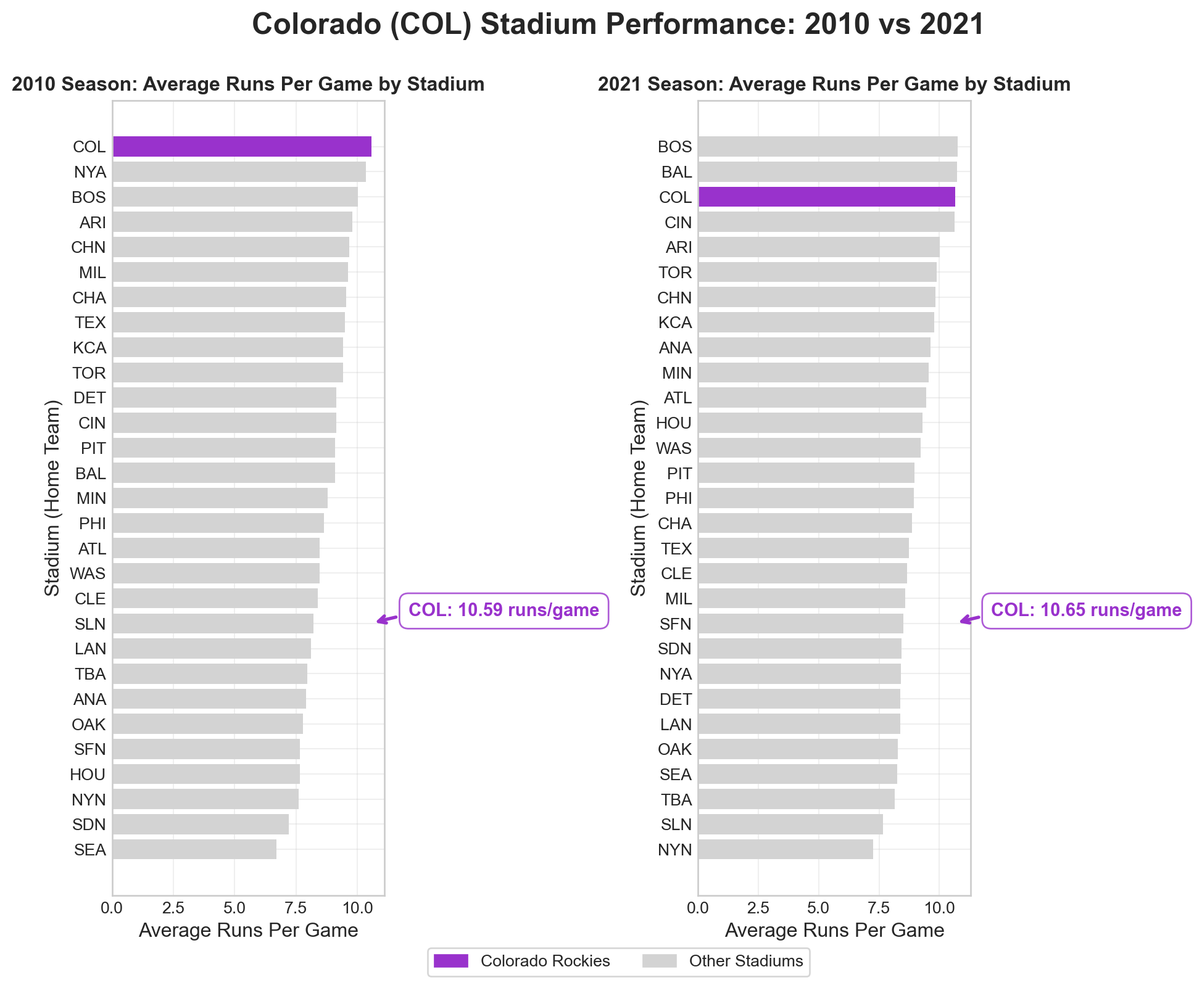
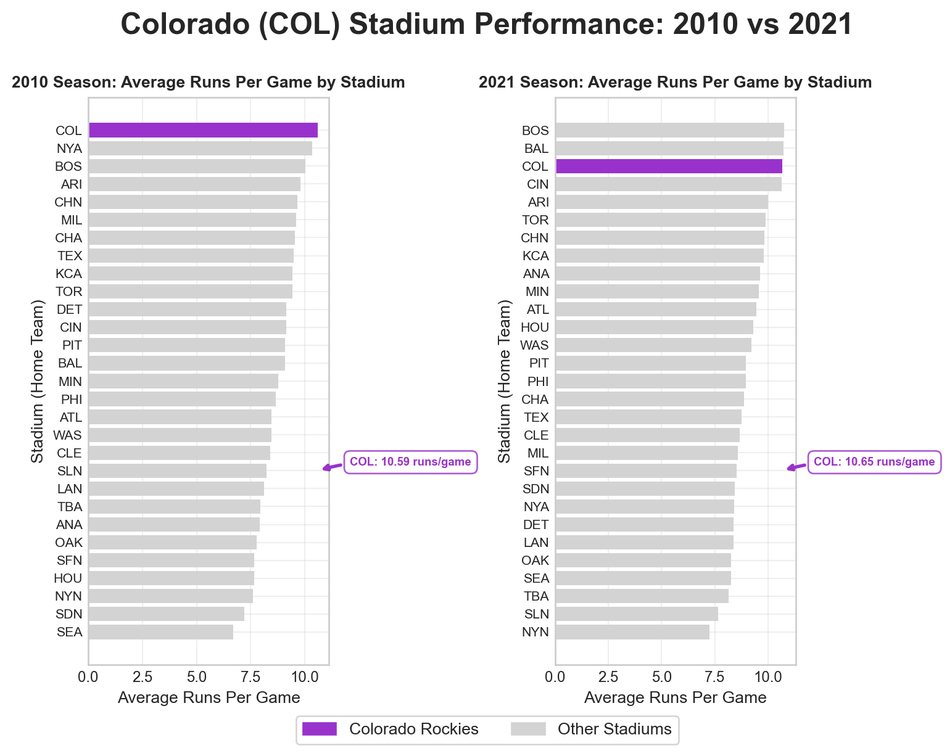
Data Visualization update8

Changed region(s): [[0.0, 0.0, 1.0, 0.9918]]

diff --git a/index.html b/index.html
@@ -362,7 +362,7 @@ First few rows of 2010 data:
 <div class="cell-output cell-output-display">
 <div>
 <figure class="figure">
-<p><img src="index_files/figure-html/stage-3-mapping-exploration-output-1.png" id="stage-3-mapping-exploration" width="758" height="566" class="figure-img"></p>
+<p><img src="index_files/figure-html/stage-3-mapping-exploration-output-1.png" id="stage-3-mapping-exploration" width="758" height="567" class="figure-img"></p>
 </figure>
 </div>
 </div>
@@ -437,17 +437,21 @@ When to use a vertical bar chart Time-series data: Use a vertical chart to displ
 <span id="cb6-39"><a href="#cb6-39" aria-hidden="true" tabindex="-1"></a>max_runs <span class="op">=</span> <span class="bu">max</span>(avgDF_2010_sorted.totalRuns)</span>
 <span id="cb6-40"><a href="#cb6-40" aria-hidden="true" tabindex="-1"></a>ax.set_xlim(<span class="dv">0</span>, <span class="bu">max</span>(colorado_runs <span class="op">+</span> <span class="dv">3</span>, max_runs <span class="op">*</span> <span class="fl">1.15</span>))</span>
 <span id="cb6-41"><a href="#cb6-41" aria-hidden="true" tabindex="-1"></a></span>
-<span id="cb6-42"><a href="#cb6-42" aria-hidden="true" tabindex="-1"></a><span class="co"># Add grid for easier reading</span></span>
-<span id="cb6-43"><a href="#cb6-43" aria-hidden="true" tabindex="-1"></a>ax.grid(<span class="va">True</span>, alpha<span class="op">=</span><span class="fl">0.3</span>)</span>
-<span id="cb6-44"><a href="#cb6-44" aria-hidden="true" tabindex="-1"></a></span>
-<span id="cb6-45"><a href="#cb6-45" aria-hidden="true" tabindex="-1"></a>plt.tight_layout()</span>
-<span id="cb6-46"><a href="#cb6-46" aria-hidden="true" tabindex="-1"></a>plt.show()</span>
-<span id="cb6-47"><a href="#cb6-47" aria-hidden="true" tabindex="-1"></a></span>
-<span id="cb6-48"><a href="#cb6-48" aria-hidden="true" tabindex="-1"></a><span class="co"># Print summary statistics</span></span>
-<span id="cb6-49"><a href="#cb6-49" aria-hidden="true" tabindex="-1"></a><span class="bu">print</span>(<span class="ss">f"</span><span class="ch">\n</span><span class="ss">Summary Statistics for 2010:"</span>)</span>
-<span id="cb6-50"><a href="#cb6-50" aria-hidden="true" tabindex="-1"></a><span class="bu">print</span>(<span class="ss">f"Colorado (COL) average runs per game: </span><span class="sc">{</span>colorado_runs<span class="sc">:.2f}</span><span class="ss">"</span>)</span>
-<span id="cb6-51"><a href="#cb6-51" aria-hidden="true" tabindex="-1"></a><span class="bu">print</span>(<span class="ss">f"League average runs per game: </span><span class="sc">{</span>avgDF_2010_sorted<span class="sc">.</span>totalRuns<span class="sc">.</span>mean()<span class="sc">:.2f}</span><span class="ss">"</span>)</span>
-<span id="cb6-52"><a href="#cb6-52" aria-hidden="true" tabindex="-1"></a><span class="bu">print</span>(<span class="ss">f"Colorado is </span><span class="sc">{</span>((colorado_runs <span class="op">/</span> avgDF_2010_sorted.totalRuns.mean()) <span class="op">-</span> <span class="dv">1</span>) <span class="op">*</span> <span class="dv">100</span><span class="sc">:.1f}</span><span class="ss">% above league average"</span>)</span></code></pre></div><button title="Copy to Clipboard" class="code-copy-button"><i class="bi"></i></button></div>
+<span id="cb6-42"><a href="#cb6-42" aria-hidden="true" tabindex="-1"></a><span class="co"># Control tick label font sizes (the numbers/values on axes)</span></span>
+<span id="cb6-43"><a href="#cb6-43" aria-hidden="true" tabindex="-1"></a>ax.tick_params(axis<span class="op">=</span><span class="st">'x'</span>, labelsize<span class="op">=</span><span class="dv">10</span>)  <span class="co"># x-axis tick numbers</span></span>
+<span id="cb6-44"><a href="#cb6-44" aria-hidden="true" tabindex="-1"></a>ax.tick_params(axis<span class="op">=</span><span class="st">'y'</span>, labelsize<span class="op">=</span><span class="dv">9</span>)   <span class="co"># y-axis stadium names</span></span>
+<span id="cb6-45"><a href="#cb6-45" aria-hidden="true" tabindex="-1"></a></span>
+<span id="cb6-46"><a href="#cb6-46" aria-hidden="true" tabindex="-1"></a><span class="co"># Add grid for easier reading</span></span>
+<span id="cb6-47"><a href="#cb6-47" aria-hidden="true" tabindex="-1"></a>ax.grid(<span class="va">True</span>, alpha<span class="op">=</span><span class="fl">0.3</span>)</span>
+<span id="cb6-48"><a href="#cb6-48" aria-hidden="true" tabindex="-1"></a></span>
+<span id="cb6-49"><a href="#cb6-49" aria-hidden="true" tabindex="-1"></a>plt.tight_layout()</span>
+<span id="cb6-50"><a href="#cb6-50" aria-hidden="true" tabindex="-1"></a>plt.show()</span>
+<span id="cb6-51"><a href="#cb6-51" aria-hidden="true" tabindex="-1"></a></span>
+<span id="cb6-52"><a href="#cb6-52" aria-hidden="true" tabindex="-1"></a><span class="co"># Print summary statistics</span></span>
+<span id="cb6-53"><a href="#cb6-53" aria-hidden="true" tabindex="-1"></a><span class="bu">print</span>(<span class="ss">f"</span><span class="ch">\n</span><span class="ss">Summary Statistics for 2010:"</span>)</span>
+<span id="cb6-54"><a href="#cb6-54" aria-hidden="true" tabindex="-1"></a><span class="bu">print</span>(<span class="ss">f"Colorado (COL) average runs per game: </span><span class="sc">{</span>colorado_runs<span class="sc">:.2f}</span><span class="ss">"</span>)</span>
+<span id="cb6-55"><a href="#cb6-55" aria-hidden="true" tabindex="-1"></a><span class="bu">print</span>(<span class="ss">f"League average runs per game: </span><span class="sc">{</span>avgDF_2010_sorted<span class="sc">.</span>totalRuns<span class="sc">.</span>mean()<span class="sc">:.2f}</span><span class="ss">"</span>)</span>
+<span id="cb6-56"><a href="#cb6-56" aria-hidden="true" tabindex="-1"></a><span class="bu">print</span>(<span class="ss">f"Colorado is </span><span class="sc">{</span>((colorado_runs <span class="op">/</span> avgDF_2010_sorted.totalRuns.mean()) <span class="op">-</span> <span class="dv">1</span>) <span class="op">*</span> <span class="dv">100</span><span class="sc">:.1f}</span><span class="ss">% above league average"</span>)</span></code></pre></div><button title="Copy to Clipboard" class="code-copy-button"><i class="bi"></i></button></div>
 <div class="cell-output cell-output-display">
 <div>
 <figure class="figure">
@@ -537,7 +541,7 @@ Colorado is 20.8% above league average</code></pre>
 <span id="cb8-14"><a href="#cb8-14" aria-hidden="true" tabindex="-1"></a>plt.style.use(<span class="st">"seaborn-v0_8-whitegrid"</span>)</span>
 <span id="cb8-15"><a href="#cb8-15" aria-hidden="true" tabindex="-1"></a></span>
 <span id="cb8-16"><a href="#cb8-16" aria-hidden="true" tabindex="-1"></a><span class="co"># Create two-facet visualization comparing 2010 and 2021</span></span>
-<span id="cb8-17"><a href="#cb8-17" aria-hidden="true" tabindex="-1"></a>fig, axes <span class="op">=</span> plt.subplots(<span class="dv">1</span>, <span class="dv">2</span>, figsize<span class="op">=</span>(<span class="dv">10</span>, <span class="dv">8</span>))</span>
+<span id="cb8-17"><a href="#cb8-17" aria-hidden="true" tabindex="-1"></a>fig, axes <span class="op">=</span> plt.subplots(<span class="dv">1</span>, <span class="dv">2</span>, figsize<span class="op">=</span>(<span class="dv">8</span>, <span class="dv">6</span>))</span>
 <span id="cb8-18"><a href="#cb8-18" aria-hidden="true" tabindex="-1"></a></span>
 <span id="cb8-19"><a href="#cb8-19" aria-hidden="true" tabindex="-1"></a><span class="co"># Sort data by total runs for consistent ordering</span></span>
 <span id="cb8-20"><a href="#cb8-20" aria-hidden="true" tabindex="-1"></a>comparison_data_2010 <span class="op">=</span> comparison_data.sort_values(<span class="st">'runs_2010'</span>, ascending<span class="op">=</span><span class="va">True</span>)</span>
@@ -551,61 +555,67 @@ Colorado is 20.8% above league average</code></pre>
 <span id="cb8-28"><a href="#cb8-28" aria-hidden="true" tabindex="-1"></a></span>
 <span id="cb8-29"><a href="#cb8-29" aria-hidden="true" tabindex="-1"></a><span class="co"># 2010 visualization</span></span>
 <span id="cb8-30"><a href="#cb8-30" aria-hidden="true" tabindex="-1"></a>bars_2010 <span class="op">=</span> axes[<span class="dv">0</span>].barh(comparison_data_2010.home, comparison_data_2010.runs_2010, color<span class="op">=</span>colors_2010)</span>
-<span id="cb8-31"><a href="#cb8-31" aria-hidden="true" tabindex="-1"></a>axes[<span class="dv">0</span>].set_title(<span class="st">"2010 Season: Average Runs Per Game by Stadium"</span>, fontsize<span class="op">=</span><span class="dv">12</span>, fontweight<span class="op">=</span><span class="st">'bold'</span>)</span>
-<span id="cb8-32"><a href="#cb8-32" aria-hidden="true" tabindex="-1"></a>axes[<span class="dv">0</span>].set_xlabel(<span class="st">"Average Runs Per Game"</span>, fontsize<span class="op">=</span><span class="dv">12</span>)</span>
-<span id="cb8-33"><a href="#cb8-33" aria-hidden="true" tabindex="-1"></a>axes[<span class="dv">0</span>].set_ylabel(<span class="st">"Stadium (Home Team)"</span>, fontsize<span class="op">=</span><span class="dv">12</span>)</span>
-<span id="cb8-34"><a href="#cb8-34" aria-hidden="true" tabindex="-1"></a>axes[<span class="dv">0</span>].grid(<span class="va">True</span>, alpha<span class="op">=</span><span class="fl">0.3</span>)</span>
-<span id="cb8-35"><a href="#cb8-35" aria-hidden="true" tabindex="-1"></a></span>
-<span id="cb8-36"><a href="#cb8-36" aria-hidden="true" tabindex="-1"></a><span class="co"># Add annotation for Colorado in 2010</span></span>
-<span id="cb8-37"><a href="#cb8-37" aria-hidden="true" tabindex="-1"></a>col_2010_idx <span class="op">=</span> comparison_data_2010[comparison_data_2010.home <span class="op">==</span> <span class="st">"COL"</span>].index[<span class="dv">0</span>]</span>
-<span id="cb8-38"><a href="#cb8-38" aria-hidden="true" tabindex="-1"></a>col_2010_runs <span class="op">=</span> comparison_data_2010[comparison_data_2010.home <span class="op">==</span> <span class="st">"COL"</span>][<span class="st">"runs_2010"</span>].iloc[<span class="dv">0</span>]</span>
-<span id="cb8-39"><a href="#cb8-39" aria-hidden="true" tabindex="-1"></a>axes[<span class="dv">0</span>].annotate(<span class="ss">f"COL: </span><span class="sc">{</span>col_2010_runs<span class="sc">:.2f}</span><span class="ss"> runs/game"</span>, </span>
-<span id="cb8-40"><a href="#cb8-40" aria-hidden="true" tabindex="-1"></a>                xy<span class="op">=</span>(col_2010_runs, col_2010_idx), </span>
-<span id="cb8-41"><a href="#cb8-41" aria-hidden="true" tabindex="-1"></a>                xytext<span class="op">=</span>(col_2010_runs <span class="op">+</span> <span class="fl">1.5</span>, col_2010_idx <span class="op">+</span> <span class="fl">0.3</span>),</span>
-<span id="cb8-42"><a href="#cb8-42" aria-hidden="true" tabindex="-1"></a>                arrowprops<span class="op">=</span><span class="bu">dict</span>(arrowstyle<span class="op">=</span><span class="st">'-&gt;'</span>, color<span class="op">=</span><span class="st">'darkorchid'</span>, lw<span class="op">=</span><span class="dv">2</span>, connectionstyle<span class="op">=</span><span class="st">'arc3,rad=0.1'</span>),fontsize<span class="op">=</span><span class="dv">11</span>, fontweight<span class="op">=</span><span class="st">'bold'</span>, color<span class="op">=</span><span class="st">'darkorchid'</span>,</span>
-<span id="cb8-43"><a href="#cb8-43" aria-hidden="true" tabindex="-1"></a>                bbox<span class="op">=</span><span class="bu">dict</span>(boxstyle<span class="op">=</span><span class="st">'round,pad=0.5'</span>, facecolor<span class="op">=</span><span class="st">'white'</span>, edgecolor<span class="op">=</span><span class="st">'darkorchid'</span>, alpha<span class="op">=</span><span class="fl">0.8</span>))</span>
-<span id="cb8-44"><a href="#cb8-44" aria-hidden="true" tabindex="-1"></a></span>
-<span id="cb8-45"><a href="#cb8-45" aria-hidden="true" tabindex="-1"></a><span class="co"># 2021 visualization</span></span>
-<span id="cb8-46"><a href="#cb8-46" aria-hidden="true" tabindex="-1"></a>bars_2021 <span class="op">=</span> axes[<span class="dv">1</span>].barh(comparison_data_2021.home, comparison_data_2021.runs_2021, color<span class="op">=</span>colors_2021)</span>
-<span id="cb8-47"><a href="#cb8-47" aria-hidden="true" tabindex="-1"></a>axes[<span class="dv">1</span>].set_title(<span class="st">"2021 Season: Average Runs Per Game by Stadium"</span>, fontsize<span class="op">=</span><span class="dv">12</span>, fontweight<span class="op">=</span><span class="st">'bold'</span>)</span>
-<span id="cb8-48"><a href="#cb8-48" aria-hidden="true" tabindex="-1"></a>axes[<span class="dv">1</span>].set_xlabel(<span class="st">"Average Runs Per Game"</span>, fontsize<span class="op">=</span><span class="dv">12</span>)</span>
-<span id="cb8-49"><a href="#cb8-49" aria-hidden="true" tabindex="-1"></a>axes[<span class="dv">1</span>].set_ylabel(<span class="st">"Stadium (Home Team)"</span>, fontsize<span class="op">=</span><span class="dv">12</span>)</span>
-<span id="cb8-50"><a href="#cb8-50" aria-hidden="true" tabindex="-1"></a>axes[<span class="dv">1</span>].grid(<span class="va">True</span>, alpha<span class="op">=</span><span class="fl">0.3</span>)</span>
-<span id="cb8-51"><a href="#cb8-51" aria-hidden="true" tabindex="-1"></a></span>
-<span id="cb8-52"><a href="#cb8-52" aria-hidden="true" tabindex="-1"></a><span class="co"># Add annotation for Colorado in 2021</span></span>
-<span id="cb8-53"><a href="#cb8-53" aria-hidden="true" tabindex="-1"></a>col_2021_idx <span class="op">=</span> comparison_data_2021[comparison_data_2021.home <span class="op">==</span> <span class="st">"COL"</span>].index[<span class="dv">0</span>]</span>
-<span id="cb8-54"><a href="#cb8-54" aria-hidden="true" tabindex="-1"></a>col_2021_runs <span class="op">=</span> comparison_data_2021[comparison_data_2021.home <span class="op">==</span> <span class="st">"COL"</span>][<span class="st">"runs_2021"</span>].iloc[<span class="dv">0</span>]</span>
-<span id="cb8-55"><a href="#cb8-55" aria-hidden="true" tabindex="-1"></a>axes[<span class="dv">1</span>].annotate(<span class="ss">f"COL: </span><span class="sc">{</span>col_2021_runs<span class="sc">:.2f}</span><span class="ss"> runs/game"</span>, </span>
-<span id="cb8-56"><a href="#cb8-56" aria-hidden="true" tabindex="-1"></a>                xy<span class="op">=</span>(col_2021_runs, col_2021_idx), </span>
-<span id="cb8-57"><a href="#cb8-57" aria-hidden="true" tabindex="-1"></a>                xytext<span class="op">=</span>(col_2021_runs <span class="op">+</span> <span class="fl">1.5</span>, col_2021_idx <span class="op">+</span> <span class="fl">0.3</span>),</span>
-<span id="cb8-58"><a href="#cb8-58" aria-hidden="true" tabindex="-1"></a>                arrowprops<span class="op">=</span><span class="bu">dict</span>(arrowstyle<span class="op">=</span><span class="st">'-&gt;'</span>, color<span class="op">=</span><span class="st">'darkorchid'</span>, lw<span class="op">=</span><span class="dv">2</span>, connectionstyle<span class="op">=</span><span class="st">'arc3,rad=0.1'</span>),fontsize<span class="op">=</span><span class="dv">11</span>, fontweight<span class="op">=</span><span class="st">'bold'</span>, color<span class="op">=</span><span class="st">'darkorchid'</span>,</span>
-<span id="cb8-59"><a href="#cb8-59" aria-hidden="true" tabindex="-1"></a>                bbox<span class="op">=</span><span class="bu">dict</span>(boxstyle<span class="op">=</span><span class="st">'round,pad=0.5'</span>, facecolor<span class="op">=</span><span class="st">'white'</span>, edgecolor<span class="op">=</span><span class="st">'darkorchid'</span>, alpha<span class="op">=</span><span class="fl">0.8</span>))</span>
-<span id="cb8-60"><a href="#cb8-60" aria-hidden="true" tabindex="-1"></a></span>
-<span id="cb8-61"><a href="#cb8-61" aria-hidden="true" tabindex="-1"></a><span class="co"># Add overall title</span></span>
-<span id="cb8-62"><a href="#cb8-62" aria-hidden="true" tabindex="-1"></a>fig.suptitle(<span class="st">"Colorado (COL) Stadium Performance: 2010 vs 2021"</span>, </span>
-<span id="cb8-63"><a href="#cb8-63" aria-hidden="true" tabindex="-1"></a>             fontsize<span class="op">=</span><span class="dv">18</span>, fontweight<span class="op">=</span><span class="st">'bold'</span>, y<span class="op">=</span><span class="fl">1.0</span>)</span>
-<span id="cb8-64"><a href="#cb8-64" aria-hidden="true" tabindex="-1"></a></span>
-<span id="cb8-65"><a href="#cb8-65" aria-hidden="true" tabindex="-1"></a><span class="co"># Add legend</span></span>
-<span id="cb8-66"><a href="#cb8-66" aria-hidden="true" tabindex="-1"></a>colorado_bar <span class="op">=</span> plt.Rectangle((<span class="dv">0</span>,<span class="dv">0</span>),<span class="dv">1</span>,<span class="dv">1</span>, color<span class="op">=</span><span class="st">"darkorchid"</span>, label<span class="op">=</span><span class="st">"Colorado Rockies"</span>)</span>
-<span id="cb8-67"><a href="#cb8-67" aria-hidden="true" tabindex="-1"></a>other_bar <span class="op">=</span> plt.Rectangle((<span class="dv">0</span>,<span class="dv">0</span>),<span class="dv">1</span>,<span class="dv">1</span>, color<span class="op">=</span><span class="st">"lightgrey"</span>, label<span class="op">=</span><span class="st">"Other Stadiums"</span>)</span>
-<span id="cb8-68"><a href="#cb8-68" aria-hidden="true" tabindex="-1"></a>fig.legend(handles<span class="op">=</span>[colorado_bar, other_bar], loc<span class="op">=</span><span class="st">'upper center'</span>, </span>
-<span id="cb8-69"><a href="#cb8-69" aria-hidden="true" tabindex="-1"></a>           bbox_to_anchor<span class="op">=</span>(<span class="fl">0.5</span>, <span class="fl">0.02</span>), ncol<span class="op">=</span><span class="dv">2</span>, frameon<span class="op">=</span><span class="va">True</span>)</span>
+<span id="cb8-31"><a href="#cb8-31" aria-hidden="true" tabindex="-1"></a>axes[<span class="dv">0</span>].set_title(<span class="st">"2010 Season: Average Runs Per Game by Stadium"</span>, fontsize<span class="op">=</span><span class="dv">10</span>, fontweight<span class="op">=</span><span class="st">'bold'</span>)</span>
+<span id="cb8-32"><a href="#cb8-32" aria-hidden="true" tabindex="-1"></a>axes[<span class="dv">0</span>].set_xlabel(<span class="st">"Average Runs Per Game"</span>, fontsize<span class="op">=</span><span class="dv">10</span>)</span>
+<span id="cb8-33"><a href="#cb8-33" aria-hidden="true" tabindex="-1"></a>axes[<span class="dv">0</span>].set_ylabel(<span class="st">"Stadium (Home Team)"</span>, fontsize<span class="op">=</span><span class="dv">10</span>)</span>
+<span id="cb8-34"><a href="#cb8-34" aria-hidden="true" tabindex="-1"></a><span class="co"># Control tick label font sizes (the numbers/values on axes)</span></span>
+<span id="cb8-35"><a href="#cb8-35" aria-hidden="true" tabindex="-1"></a>axes[<span class="dv">0</span>].tick_params(axis<span class="op">=</span><span class="st">'x'</span>, labelsize<span class="op">=</span><span class="dv">9</span>)  <span class="co"># x-axis tick numbers</span></span>
+<span id="cb8-36"><a href="#cb8-36" aria-hidden="true" tabindex="-1"></a>axes[<span class="dv">0</span>].tick_params(axis<span class="op">=</span><span class="st">'y'</span>, labelsize<span class="op">=</span><span class="dv">8</span>)  <span class="co"># y-axis stadium names (smaller for readability)</span></span>
+<span id="cb8-37"><a href="#cb8-37" aria-hidden="true" tabindex="-1"></a>axes[<span class="dv">0</span>].grid(<span class="va">True</span>, alpha<span class="op">=</span><span class="fl">0.3</span>)</span>
+<span id="cb8-38"><a href="#cb8-38" aria-hidden="true" tabindex="-1"></a></span>
+<span id="cb8-39"><a href="#cb8-39" aria-hidden="true" tabindex="-1"></a><span class="co"># Add annotation for Colorado in 2010</span></span>
+<span id="cb8-40"><a href="#cb8-40" aria-hidden="true" tabindex="-1"></a>col_2010_idx <span class="op">=</span> comparison_data_2010[comparison_data_2010.home <span class="op">==</span> <span class="st">"COL"</span>].index[<span class="dv">0</span>]</span>
+<span id="cb8-41"><a href="#cb8-41" aria-hidden="true" tabindex="-1"></a>col_2010_runs <span class="op">=</span> comparison_data_2010[comparison_data_2010.home <span class="op">==</span> <span class="st">"COL"</span>][<span class="st">"runs_2010"</span>].iloc[<span class="dv">0</span>]</span>
+<span id="cb8-42"><a href="#cb8-42" aria-hidden="true" tabindex="-1"></a>axes[<span class="dv">0</span>].annotate(<span class="ss">f"COL: </span><span class="sc">{</span>col_2010_runs<span class="sc">:.2f}</span><span class="ss"> runs/game"</span>, </span>
+<span id="cb8-43"><a href="#cb8-43" aria-hidden="true" tabindex="-1"></a>                xy<span class="op">=</span>(col_2010_runs, col_2010_idx), </span>
+<span id="cb8-44"><a href="#cb8-44" aria-hidden="true" tabindex="-1"></a>                xytext<span class="op">=</span>(col_2010_runs <span class="op">+</span> <span class="fl">1.5</span>, col_2010_idx <span class="op">+</span> <span class="fl">0.3</span>),</span>
+<span id="cb8-45"><a href="#cb8-45" aria-hidden="true" tabindex="-1"></a>                arrowprops<span class="op">=</span><span class="bu">dict</span>(arrowstyle<span class="op">=</span><span class="st">'-&gt;'</span>, color<span class="op">=</span><span class="st">'darkorchid'</span>, lw<span class="op">=</span><span class="dv">2</span>, connectionstyle<span class="op">=</span><span class="st">'arc3,rad=0.1'</span>),fontsize<span class="op">=</span><span class="dv">7</span>, fontweight<span class="op">=</span><span class="st">'bold'</span>, color<span class="op">=</span><span class="st">'darkorchid'</span>,</span>
+<span id="cb8-46"><a href="#cb8-46" aria-hidden="true" tabindex="-1"></a>                bbox<span class="op">=</span><span class="bu">dict</span>(boxstyle<span class="op">=</span><span class="st">'round,pad=0.5'</span>, facecolor<span class="op">=</span><span class="st">'white'</span>, edgecolor<span class="op">=</span><span class="st">'darkorchid'</span>, alpha<span class="op">=</span><span class="fl">0.8</span>))</span>
+<span id="cb8-47"><a href="#cb8-47" aria-hidden="true" tabindex="-1"></a></span>
+<span id="cb8-48"><a href="#cb8-48" aria-hidden="true" tabindex="-1"></a><span class="co"># 2021 visualization</span></span>
+<span id="cb8-49"><a href="#cb8-49" aria-hidden="true" tabindex="-1"></a>bars_2021 <span class="op">=</span> axes[<span class="dv">1</span>].barh(comparison_data_2021.home, comparison_data_2021.runs_2021, color<span class="op">=</span>colors_2021)</span>
+<span id="cb8-50"><a href="#cb8-50" aria-hidden="true" tabindex="-1"></a>axes[<span class="dv">1</span>].set_title(<span class="st">"2021 Season: Average Runs Per Game by Stadium"</span>, fontsize<span class="op">=</span><span class="dv">10</span>, fontweight<span class="op">=</span><span class="st">'bold'</span>)</span>
+<span id="cb8-51"><a href="#cb8-51" aria-hidden="true" tabindex="-1"></a>axes[<span class="dv">1</span>].set_xlabel(<span class="st">"Average Runs Per Game"</span>, fontsize<span class="op">=</span><span class="dv">10</span>)</span>
+<span id="cb8-52"><a href="#cb8-52" aria-hidden="true" tabindex="-1"></a>axes[<span class="dv">1</span>].set_ylabel(<span class="st">"Stadium (Home Team)"</span>, fontsize<span class="op">=</span><span class="dv">10</span>)</span>
+<span id="cb8-53"><a href="#cb8-53" aria-hidden="true" tabindex="-1"></a><span class="co"># Control tick label font sizes (the numbers/values on axes)</span></span>
+<span id="cb8-54"><a href="#cb8-54" aria-hidden="true" tabindex="-1"></a>axes[<span class="dv">1</span>].tick_params(axis<span class="op">=</span><span class="st">'x'</span>, labelsize<span class="op">=</span><span class="dv">9</span>)  <span class="co"># x-axis tick numbers</span></span>
+<span id="cb8-55"><a href="#cb8-55" aria-hidden="true" tabindex="-1"></a>axes[<span class="dv">1</span>].tick_params(axis<span class="op">=</span><span class="st">'y'</span>, labelsize<span class="op">=</span><span class="dv">8</span>)  <span class="co"># y-axis stadium names (smaller for readability)</span></span>
+<span id="cb8-56"><a href="#cb8-56" aria-hidden="true" tabindex="-1"></a>axes[<span class="dv">1</span>].grid(<span class="va">True</span>, alpha<span class="op">=</span><span class="fl">0.3</span>)</span>
+<span id="cb8-57"><a href="#cb8-57" aria-hidden="true" tabindex="-1"></a></span>
+<span id="cb8-58"><a href="#cb8-58" aria-hidden="true" tabindex="-1"></a><span class="co"># Add annotation for Colorado in 2021</span></span>
+<span id="cb8-59"><a href="#cb8-59" aria-hidden="true" tabindex="-1"></a>col_2021_idx <span class="op">=</span> comparison_data_2021[comparison_data_2021.home <span class="op">==</span> <span class="st">"COL"</span>].index[<span class="dv">0</span>]</span>
+<span id="cb8-60"><a href="#cb8-60" aria-hidden="true" tabindex="-1"></a>col_2021_runs <span class="op">=</span> comparison_data_2021[comparison_data_2021.home <span class="op">==</span> <span class="st">"COL"</span>][<span class="st">"runs_2021"</span>].iloc[<span class="dv">0</span>]</span>
+<span id="cb8-61"><a href="#cb8-61" aria-hidden="true" tabindex="-1"></a>axes[<span class="dv">1</span>].annotate(<span class="ss">f"COL: </span><span class="sc">{</span>col_2021_runs<span class="sc">:.2f}</span><span class="ss"> runs/game"</span>, </span>
+<span id="cb8-62"><a href="#cb8-62" aria-hidden="true" tabindex="-1"></a>                xy<span class="op">=</span>(col_2021_runs, col_2021_idx), </span>
+<span id="cb8-63"><a href="#cb8-63" aria-hidden="true" tabindex="-1"></a>                xytext<span class="op">=</span>(col_2021_runs <span class="op">+</span> <span class="fl">1.5</span>, col_2021_idx <span class="op">+</span> <span class="fl">0.3</span>),</span>
+<span id="cb8-64"><a href="#cb8-64" aria-hidden="true" tabindex="-1"></a>                arrowprops<span class="op">=</span><span class="bu">dict</span>(arrowstyle<span class="op">=</span><span class="st">'-&gt;'</span>, color<span class="op">=</span><span class="st">'darkorchid'</span>, lw<span class="op">=</span><span class="dv">2</span>, connectionstyle<span class="op">=</span><span class="st">'arc3,rad=0.1'</span>),fontsize<span class="op">=</span><span class="dv">7</span>, fontweight<span class="op">=</span><span class="st">'bold'</span>, color<span class="op">=</span><span class="st">'darkorchid'</span>,</span>
+<span id="cb8-65"><a href="#cb8-65" aria-hidden="true" tabindex="-1"></a>                bbox<span class="op">=</span><span class="bu">dict</span>(boxstyle<span class="op">=</span><span class="st">'round,pad=0.5'</span>, facecolor<span class="op">=</span><span class="st">'white'</span>, edgecolor<span class="op">=</span><span class="st">'darkorchid'</span>, alpha<span class="op">=</span><span class="fl">0.8</span>))</span>
+<span id="cb8-66"><a href="#cb8-66" aria-hidden="true" tabindex="-1"></a></span>
+<span id="cb8-67"><a href="#cb8-67" aria-hidden="true" tabindex="-1"></a><span class="co"># Add overall title</span></span>
+<span id="cb8-68"><a href="#cb8-68" aria-hidden="true" tabindex="-1"></a>fig.suptitle(<span class="st">"Colorado (COL) Stadium Performance: 2010 vs 2021"</span>, </span>
+<span id="cb8-69"><a href="#cb8-69" aria-hidden="true" tabindex="-1"></a>             fontsize<span class="op">=</span><span class="dv">18</span>, fontweight<span class="op">=</span><span class="st">'bold'</span>, y<span class="op">=</span><span class="fl">1.0</span>)</span>
 <span id="cb8-70"><a href="#cb8-70" aria-hidden="true" tabindex="-1"></a></span>
-<span id="cb8-71"><a href="#cb8-71" aria-hidden="true" tabindex="-1"></a>plt.tight_layout()</span>
-<span id="cb8-72"><a href="#cb8-72" aria-hidden="true" tabindex="-1"></a>plt.show()</span>
-<span id="cb8-73"><a href="#cb8-73" aria-hidden="true" tabindex="-1"></a></span>
-<span id="cb8-74"><a href="#cb8-74" aria-hidden="true" tabindex="-1"></a><span class="co"># Print summary statistics</span></span>
-<span id="cb8-75"><a href="#cb8-75" aria-hidden="true" tabindex="-1"></a><span class="bu">print</span>(<span class="ss">f"</span><span class="ch">\n</span><span class="ss">Colorado Stadium Performance Summary:"</span>)</span>
-<span id="cb8-76"><a href="#cb8-76" aria-hidden="true" tabindex="-1"></a><span class="bu">print</span>(<span class="ss">f"2010: </span><span class="sc">{</span>col_2010_runs<span class="sc">:.2f}</span><span class="ss"> runs/game"</span>)</span>
-<span id="cb8-77"><a href="#cb8-77" aria-hidden="true" tabindex="-1"></a><span class="bu">print</span>(<span class="ss">f"2021: </span><span class="sc">{</span>col_2021_runs<span class="sc">:.2f}</span><span class="ss"> runs/game"</span>)</span>
-<span id="cb8-78"><a href="#cb8-78" aria-hidden="true" tabindex="-1"></a><span class="bu">print</span>(<span class="ss">f"Change: </span><span class="sc">{</span>col_2021_runs <span class="op">-</span> col_2010_runs<span class="sc">:+.2f}</span><span class="ss"> runs/game"</span>)</span>
-<span id="cb8-79"><a href="#cb8-79" aria-hidden="true" tabindex="-1"></a><span class="bu">print</span>(<span class="ss">f"</span><span class="ch">\n</span><span class="ss">League Average Comparison:"</span>)</span>
-<span id="cb8-80"><a href="#cb8-80" aria-hidden="true" tabindex="-1"></a><span class="bu">print</span>(<span class="ss">f"2010 League Average: </span><span class="sc">{</span>comparison_data_2010<span class="sc">.</span>runs_2010<span class="sc">.</span>mean()<span class="sc">:.2f}</span><span class="ss"> runs/game"</span>)</span>
-<span id="cb8-81"><a href="#cb8-81" aria-hidden="true" tabindex="-1"></a><span class="bu">print</span>(<span class="ss">f"2021 League Average: </span><span class="sc">{</span>comparison_data_2021<span class="sc">.</span>runs_2021<span class="sc">.</span>mean()<span class="sc">:.2f}</span><span class="ss"> runs/game"</span>)</span></code></pre></div><button title="Copy to Clipboard" class="code-copy-button"><i class="bi"></i></button></div>
+<span id="cb8-71"><a href="#cb8-71" aria-hidden="true" tabindex="-1"></a><span class="co"># Add legend</span></span>
+<span id="cb8-72"><a href="#cb8-72" aria-hidden="true" tabindex="-1"></a>colorado_bar <span class="op">=</span> plt.Rectangle((<span class="dv">0</span>,<span class="dv">0</span>),<span class="dv">1</span>,<span class="dv">1</span>, color<span class="op">=</span><span class="st">"darkorchid"</span>, label<span class="op">=</span><span class="st">"Colorado Rockies"</span>)</span>
+<span id="cb8-73"><a href="#cb8-73" aria-hidden="true" tabindex="-1"></a>other_bar <span class="op">=</span> plt.Rectangle((<span class="dv">0</span>,<span class="dv">0</span>),<span class="dv">1</span>,<span class="dv">1</span>, color<span class="op">=</span><span class="st">"lightgrey"</span>, label<span class="op">=</span><span class="st">"Other Stadiums"</span>)</span>
+<span id="cb8-74"><a href="#cb8-74" aria-hidden="true" tabindex="-1"></a>fig.legend(handles<span class="op">=</span>[colorado_bar, other_bar], loc<span class="op">=</span><span class="st">'upper center'</span>, </span>
+<span id="cb8-75"><a href="#cb8-75" aria-hidden="true" tabindex="-1"></a>           bbox_to_anchor<span class="op">=</span>(<span class="fl">0.5</span>, <span class="fl">0.02</span>), ncol<span class="op">=</span><span class="dv">2</span>, frameon<span class="op">=</span><span class="va">True</span>)</span>
+<span id="cb8-76"><a href="#cb8-76" aria-hidden="true" tabindex="-1"></a></span>
+<span id="cb8-77"><a href="#cb8-77" aria-hidden="true" tabindex="-1"></a>plt.tight_layout()</span>
+<span id="cb8-78"><a href="#cb8-78" aria-hidden="true" tabindex="-1"></a>plt.show()</span>
+<span id="cb8-79"><a href="#cb8-79" aria-hidden="true" tabindex="-1"></a></span>
+<span id="cb8-80"><a href="#cb8-80" aria-hidden="true" tabindex="-1"></a><span class="co"># Print summary statistics</span></span>
+<span id="cb8-81"><a href="#cb8-81" aria-hidden="true" tabindex="-1"></a><span class="bu">print</span>(<span class="ss">f"</span><span class="ch">\n</span><span class="ss">Colorado Stadium Performance Summary:"</span>)</span>
+<span id="cb8-82"><a href="#cb8-82" aria-hidden="true" tabindex="-1"></a><span class="bu">print</span>(<span class="ss">f"2010: </span><span class="sc">{</span>col_2010_runs<span class="sc">:.2f}</span><span class="ss"> runs/game"</span>)</span>
+<span id="cb8-83"><a href="#cb8-83" aria-hidden="true" tabindex="-1"></a><span class="bu">print</span>(<span class="ss">f"2021: </span><span class="sc">{</span>col_2021_runs<span class="sc">:.2f}</span><span class="ss"> runs/game"</span>)</span>
+<span id="cb8-84"><a href="#cb8-84" aria-hidden="true" tabindex="-1"></a><span class="bu">print</span>(<span class="ss">f"Change: </span><span class="sc">{</span>col_2021_runs <span class="op">-</span> col_2010_runs<span class="sc">:+.2f}</span><span class="ss"> runs/game"</span>)</span>
+<span id="cb8-85"><a href="#cb8-85" aria-hidden="true" tabindex="-1"></a><span class="bu">print</span>(<span class="ss">f"</span><span class="ch">\n</span><span class="ss">League Average Comparison:"</span>)</span>
+<span id="cb8-86"><a href="#cb8-86" aria-hidden="true" tabindex="-1"></a><span class="bu">print</span>(<span class="ss">f"2010 League Average: </span><span class="sc">{</span>comparison_data_2010<span class="sc">.</span>runs_2010<span class="sc">.</span>mean()<span class="sc">:.2f}</span><span class="ss"> runs/game"</span>)</span>
+<span id="cb8-87"><a href="#cb8-87" aria-hidden="true" tabindex="-1"></a><span class="bu">print</span>(<span class="ss">f"2021 League Average: </span><span class="sc">{</span>comparison_data_2021<span class="sc">.</span>runs_2021<span class="sc">.</span>mean()<span class="sc">:.2f}</span><span class="ss"> runs/game"</span>)</span></code></pre></div><button title="Copy to Clipboard" class="code-copy-button"><i class="bi"></i></button></div>
 <div class="cell-output cell-output-display">
 <div>
 <figure class="figure">
-<p><img src="index_files/figure-html/advanced-oo-techniques-output-1.png" id="advanced-oo-techniques" width="968" height="801" class="figure-img"></p>
+<p><img src="index_files/figure-html/advanced-oo-techniques-output-1.png" id="advanced-oo-techniques" width="768" height="613" class="figure-img"></p>
 </figure>
 </div>
 </div>

diff --git a/font_size_guide.md b/font_size_guide.md
@@ -1,0 +1,81 @@
+# Managing Font Sizes on Matplotlib Axes
+
+## Three Types of Text on Axes:
+
+1. **Axis Labels** (e.g., "Average Runs Per Game") - already controlled
+2. **Tick Labels** (the numbers/values on the axes) - needs control
+3. **Tick Parameters** (rotation, spacing, etc.)
+
+## Methods to Control Font Sizes:
+
+### Method 1: Control Each Axis Separately (Recommended)
+
+```python
+# For axis labels (you're already doing this):
+axes[0].set_xlabel("Average Runs Per Game", fontsize=10)
+axes[0].set_ylabel("Stadium (Home Team)", fontsize=10)
+
+# For tick labels (the numbers):
+axes[0].tick_params(axis='x', labelsize=9)  # x-axis tick labels
+axes[0].tick_params(axis='y', labelsize=9)  # y-axis tick labels
+
+# Or set both at once:
+axes[0].tick_params(labelsize=9)  # both axes
+```
+
+### Method 2: Set Tick Label Size Directly
+
+```python
+# Get current tick labels and set font size
+axes[0].set_xticklabels(axes[0].get_xticklabels(), fontsize=9)
+axes[0].set_yticklabels(axes[0].get_yticklabels(), fontsize=9)
+```
+
+### Method 3: Global Style (affects all plots)
+
+```python
+import matplotlib.pyplot as plt
+plt.rcParams['xtick.labelsize'] = 9
+plt.rcParams['ytick.labelsize'] = 9
+plt.rcParams['axes.labelsize'] = 10
+```
+
+## Complete Example for Your Code:
+
+```python
+# 2010 visualization
+bars_2010 = axes[0].barh(comparison_data_2010.home, comparison_data_2010.runs_2010, color=colors_2010)
+axes[0].set_title("2010 Season: Average Runs Per Game by Stadium", fontsize=10, fontweight='bold')
+axes[0].set_xlabel("Average Runs Per Game", fontsize=10)
+axes[0].set_ylabel("Stadium (Home Team)", fontsize=10)
+
+# Control tick label font sizes
+axes[0].tick_params(axis='x', labelsize=9)  # x-axis numbers
+axes[0].tick_params(axis='y', labelsize=8)  # y-axis stadium names (smaller for many items)
+
+axes[0].grid(True, alpha=0.3)
+```
+
+## Best Practices:
+
+1. **Hierarchy**: Title (largest) > Axis Labels > Tick Labels (smallest)
+2. **Readability**: 
+   - X-axis tick labels: 9-11pt usually good
+   - Y-axis tick labels: 8-10pt (smaller if many items)
+   - Axis labels: 10-12pt
+3. **For many items** (like 30 stadiums): Use smaller y-axis tick labels (7-8pt)
+
+## Common Font Size Relationships:
+
+```python
+# Professional presentation:
+title_fontsize = 14
+label_fontsize = 11
+tick_fontsize = 9
+
+# Compact visualization:
+title_fontsize = 10
+label_fontsize = 9
+tick_fontsize = 8
+```
+
